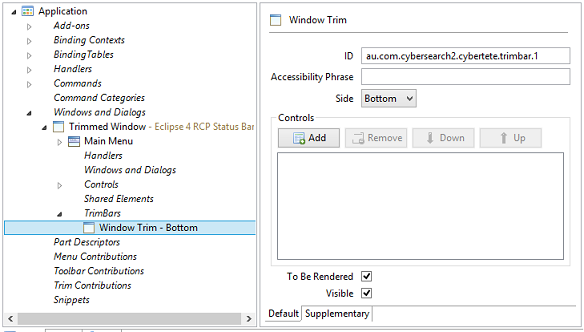
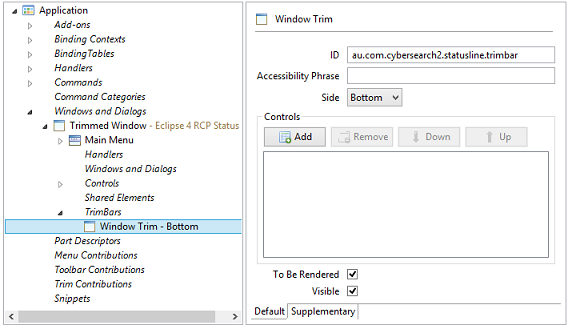
Update README.md

Changed region(s): [[0.0, 0.0, 1.0, 1.0], [0.0898, 0.5538, 0.1197, 0.5846]]

diff --git a/README.md b/README.md
@@ -3,7 +3,7 @@
 ## Introduction
 
 Statusbar is a fragment plugin which adds a status line to a pure E4 application.
-Using the Eclipse 4 Model Editor, simply add to the main window a "Window Trim - Bottom" with ID "au.com.cybersearch2.cybertete.trimbar.1".
+Using the Eclipse 4 Model Editor, simply add to the main window a "Window Trim - Bottom" with ID "au.com.cybersearch2.statusline.trimbar".
 Here is an example:
 
 
@@ -11,11 +11,15 @@ Here is an example:
 Format: ![Eclipse 4 Model Editor](url)
 
  
-The plugin expects to find a class in the Eclipse context which implements interface **au.com.cybersearch2.statusbar.IStatusBar**.
-This interface requires two overrides:
+For information on Statusbar, go to our [support site] (www.cybersearch2.com.au/eclipse).
 
-1. '<StatusLine getStatusLine(Composite parent)>`
+This plugin is a spin off from the development of the Cybertete Rich Client Platform (RCP) Instant Messaging Client
+which is a research project into how to utilize the latest E4 technologies. Statusbar originated as
+an integral part of Cybertete, but moving the status line implmentation to to a separate plugin seemed a
+worthy project for code reuse. Hence Statusbar was created. The original design has been enhanced to increase flexibility 
+and should be readily droped into any E4 RCP application. 
+The plugin is available online in P2 repository [https://dl.bintray.com/andrew-bowley/generic/Statusbar/V1.1.0] (https://dl.bintray.com/andrew-bowley/generic/Statusbar/V1.1.0). 
 
-2. '<List<StatusLineContribution> getContributions()>`
-
-The getStatusLine() method returns 
+Available from the same P2 repository is the companion Control Factory plugin, a Statusbar dependency which facilitates unit testing
+where code uses the Standard Widget Toolkit (SWT) - the Eclipse portable Graphics library. 
+ 
